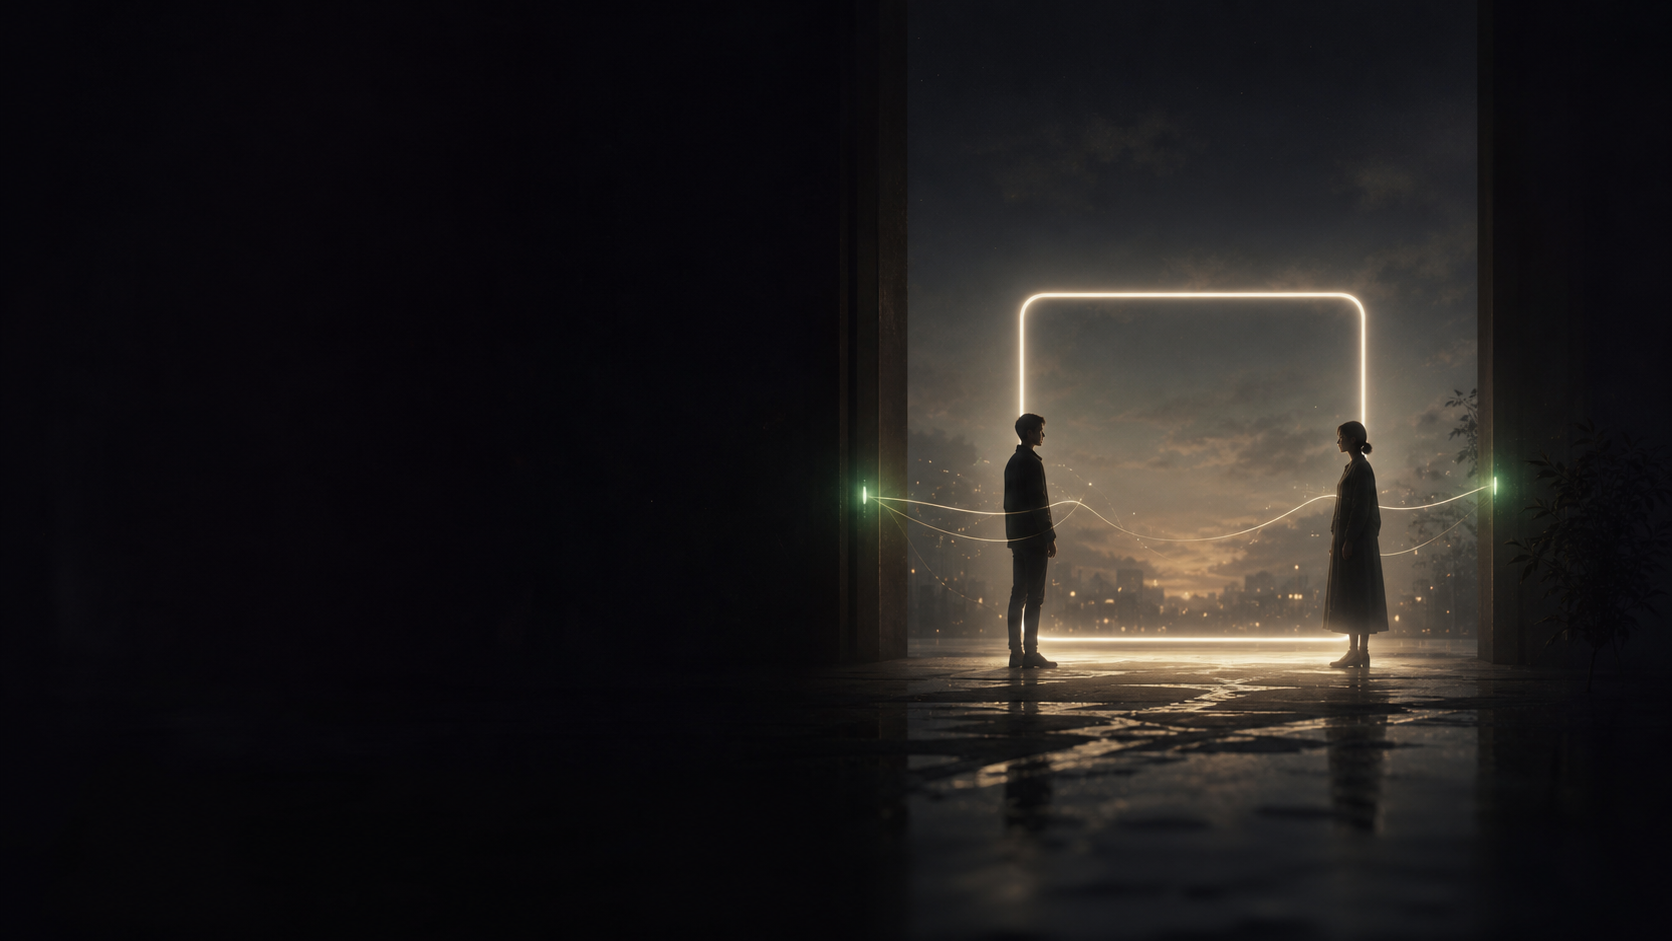
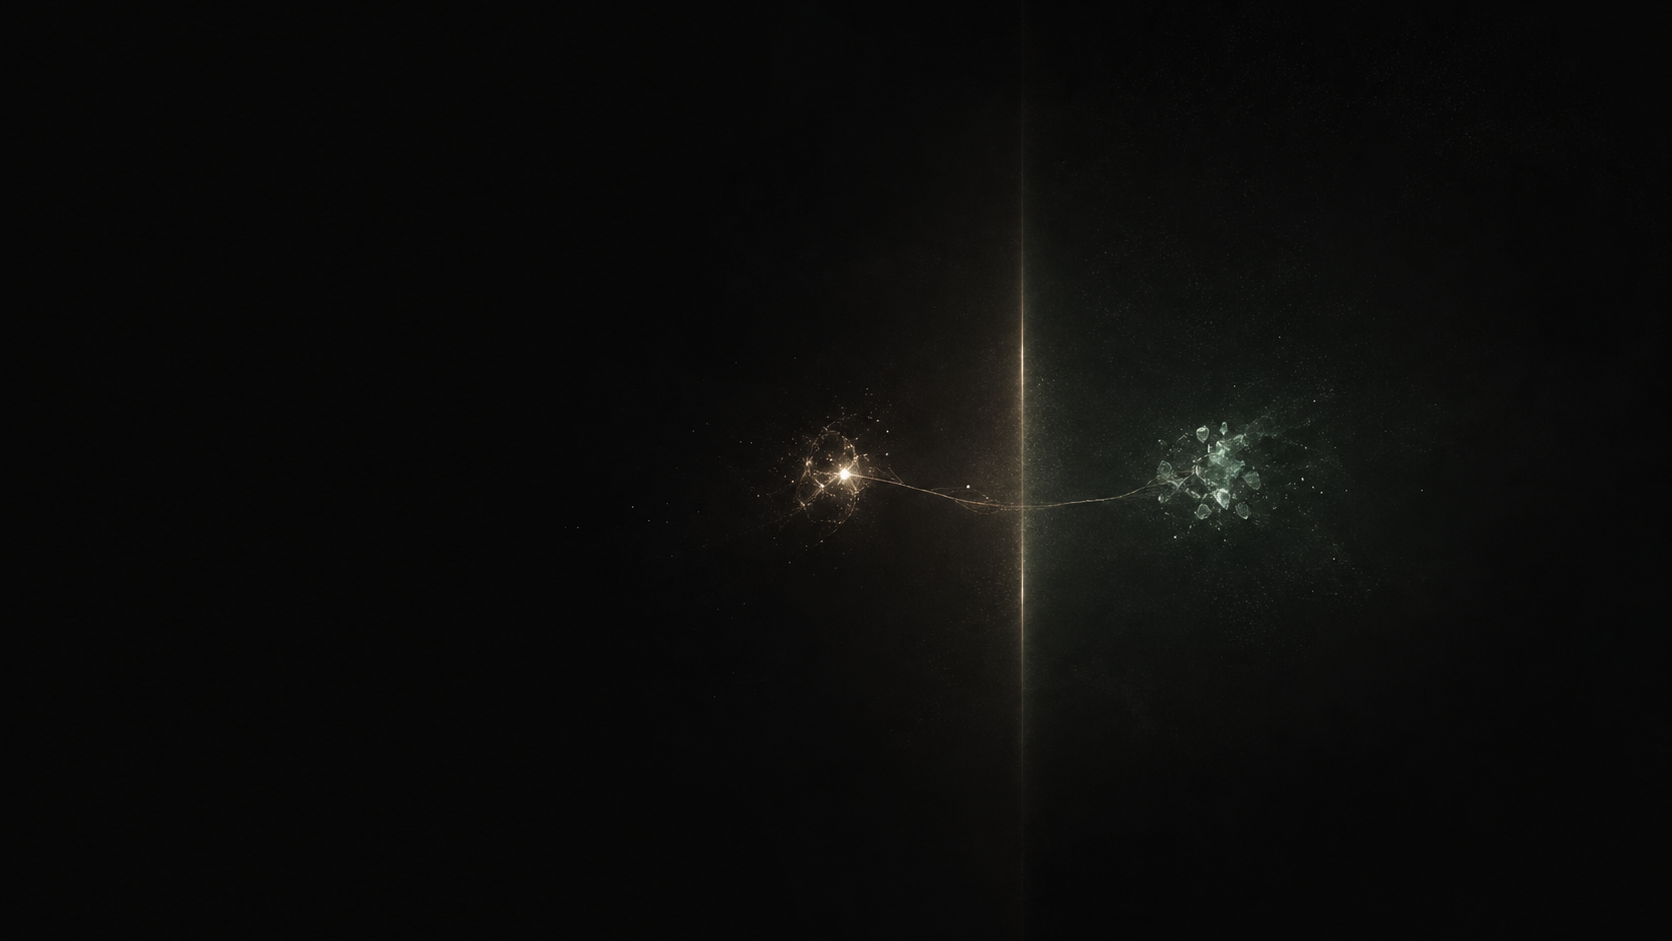
fix: refine unknown homepage atmosphere

Changed region(s): [[0.4665, 0.0925, 0.933, 0.9862]]

diff --git a/app/page.tsx b/app/page.tsx
@@ -36,32 +36,24 @@ type QrStatusResponse = Pick<QrResponse, "expiresAt" | "sessionId"> & {
 type Locale = "zh" | "en";
 
 const githubUrl = "https://github.com/samwang0041-star/whoareyou";
-const contactEmail = "[email redacted]";
+const contactEmail = "[email redacted]";
 const pageCopy = {
   zh: {
     localeName: "中文",
     switchLabel: "EN",
     switchAria: "Switch to English",
-    topLine: "一个 AI 爱好者的小玩具",
+    topLine: "AI 工具之外",
     hour: "one hour",
     title: "UNKNOWN",
-    lead: "你以为又要接入一个 agent。\n这一次，入口后面只是一个人。",
-    subLead: "扫码，把这个微信入口留给一个也停下来的人。也许没有结论，但会有一小时是真的。",
+    lead: "不是新的 agent。\n也不是匿名社交。",
+    subLead: "把入口留在微信里。也许某一刻，会有另一个未知的信号靠近。",
     enterIdle: "进入",
     enterLoading: "入口亮起中",
     enterConnected: "入口已亮",
-    enterHelper: "扫码后，回到微信发「打开」。",
+    enterHelper: "扫码后，回到微信发「打开」。一小时。",
     connectedHelper: "回到微信，发「打开」。",
-    sideNote: "不是匿名社交，也不是一个新社区。只是 vibe coding 太久以后，做出来的一个开源小玩具。",
-    whyTitle: "为什么做这个",
-    whyLeft:
-      "AI 时代，我们不停地和 AI 对话。五小时窗口、week 窗口、token 焦虑，像一条看不见的倒计时，把人推着往前走。",
-    whyRight:
-      "AI 工具一天迭代 N 个版本，我们仿佛成了给它们做回归测试的人。工具越来越快，时间却越来越不够用。",
-    whyEnd:
-      "所以这一次，还是同一个入口，还是扫码，还是在微信里说话。但入口后面不是一个永远在线的模型，而是另一个也停下来的人。",
-    footerLine:
-      "开源，不保存昵称、头像、手机号或明文聊天记录。只是想在 vibe coding 这么久后，真的做一个自己觉得有意思的产品。",
+    sideNote: "开源。不保存昵称、头像、手机号或明文聊天。",
+    footerLine: "vibe coding 很久以后，只想做一个自己觉得有意思的小东西。",
     github: "GitHub",
     experience: "体验入口",
     contactPrefix: "如有侵权，联系",
@@ -87,6 +79,8 @@ const pageCopy = {
       providerErrorHelper: "换一个二维码，再试一次。",
       localHelper: "这不是微信服务器二维码，只用于本地模拟扫码。",
       realHelper: "扫完，回到微信发「打开」。",
+      mobileRealPrompt: "长按二维码识别",
+      mobileRealHelper: "识别后，回到微信发「打开」。",
       expiredStatus: "已熄灭",
       waitingStatus: "等你靠近",
       scanConfirmingStatus: "等你开口",
@@ -106,26 +100,18 @@ const pageCopy = {
     localeName: "English",
     switchLabel: "中",
     switchAria: "切换到中文",
-    topLine: "a small toy by an AI hobbyist",
+    topLine: "outside the tools",
     hour: "one hour",
     title: "UNKNOWN",
-    lead: "You think this is another agent endpoint.\nThis time, there is only a person behind it.",
-    subLead: "Scan with WeChat and leave the entrance open for someone else who also stopped. It may not solve anything, but the hour is real.",
+    lead: "Not another agent.\nNot anonymous social.",
+    subLead: "Leave the entrance in WeChat. At some unknown moment, another signal may come close.",
     enterIdle: "Enter",
     enterLoading: "Lighting up",
     enterConnected: "Entrance lit",
-    enterHelper: "After scanning, return to WeChat and send “打开”.",
+    enterHelper: "Scan, return to WeChat, send “打开”. One hour.",
     connectedHelper: "Return to WeChat and send “打开”.",
-    sideNote: "Not anonymous social networking, not a new community. Just a small open-source toy made after too much vibe coding.",
-    whyTitle: "Why this exists",
-    whyLeft:
-      "In the AI era, we keep talking to models. Five-hour windows, week windows, token anxiety, and context limits become a quiet countdown.",
-    whyRight:
-      "AI tools iterate many times a day. We start to feel like regression testers for the tools that were supposed to help us.",
-    whyEnd:
-      "So this uses the same entrance, the same scan, and the same WeChat conversation. But behind it is not an always-online model. It is someone else who stopped.",
-    footerLine:
-      "Open source. No nicknames, avatars, phone numbers, or readable chat history are stored. I just wanted to build something personally interesting after a long stretch of vibe coding.",
+    sideNote: "Open source. No nicknames, avatars, phone numbers, or readable chat history.",
+    footerLine: "After too much vibe coding, I wanted to make one small thing that still felt interesting.",
     github: "GitHub",
     experience: "Try it",
     contactPrefix: "If this infringes your rights, contact",
@@ -151,6 +137,8 @@ const pageCopy = {
       providerErrorHelper: "Get a new QR code and try again.",
       localHelper: "This is not a WeChat server QR code. It is only for local simulation.",
       realHelper: "After scanning, return to WeChat and send “打开”.",
+      mobileRealPrompt: "Long-press the QR code",
+      mobileRealHelper: "After it opens in WeChat, send “打开”.",
       expiredStatus: "Expired",
       waitingStatus: "Waiting",
       scanConfirmingStatus: "Waiting for words",
@@ -266,6 +254,7 @@ export default function HomePage() {
   const [isLoading, setIsLoading] = useState(false);
   const [remainingSeconds, setRemainingSeconds] = useState<number | null>(null);
   const [isReady, setIsReady] = useState(false);
+  const [isCompactViewport, setIsCompactViewport] = useState(false);
   const t = pageCopy[locale];
   const modalCopy = t.modal;
   const nextLocale: Locale = locale === "zh" ? "en" : "zh";
@@ -276,6 +265,14 @@ export default function HomePage() {
       setIsReady(true);
     }, 0);
     return () => window.clearTimeout(readyTimer);
+  }, []);
+
+  useEffect(() => {
+    const query = window.matchMedia("(max-width: 767px)");
+    const updateViewport = () => setIsCompactViewport(query.matches);
+    updateViewport();
+    query.addEventListener("change", updateViewport);
+    return () => query.removeEventListener("change", updateViewport);
   }, []);
 
   const markEntryConnected = useCallback((source: QrResponse) => {
@@ -425,6 +422,7 @@ export default function HomePage() {
   const shouldShowQr = Boolean(entryQr && (phase === "ready" || phase === "expired"));
   const hasConnectedEntry = phase === "connected" || Boolean(connectedEntry);
   const isLocalQrPreview = entryQr?.mode === "fake" && shouldShowQr;
+  const shouldUseLongPressCopy = shouldShowQr && !isLocalQrPreview && isCompactViewport;
   const qrPrompt = isQrExpired
     ? modalCopy.expiredPrompt
     : qrStatus === "scan_confirming"
@@ -435,7 +433,9 @@ export default function HomePage() {
           ? modalCopy.providerErrorPrompt
           : isLocalQrPreview
             ? modalCopy.localPrompt
-          : modalCopy.realPrompt;
+            : shouldUseLongPressCopy
+              ? modalCopy.mobileRealPrompt
+              : modalCopy.realPrompt;
   const qrHelperText = isQrExpired
     ? modalCopy.expiredHelper
     : qrStatus === "scan_confirming"
@@ -446,7 +446,9 @@ export default function HomePage() {
           ? modalCopy.providerErrorHelper
           : isLocalQrPreview
             ? modalCopy.localHelper
-          : modalCopy.realHelper;
+            : shouldUseLongPressCopy
+              ? modalCopy.mobileRealHelper
+              : modalCopy.realHelper;
   const qrStatusLabel = isQrExpired
     ? modalCopy.expiredStatus
     : qrStatus === "waiting_to_scan"
@@ -465,11 +467,11 @@ export default function HomePage() {
   const canReopenAfterProviderError = qrStatus === "provider_error";
 
   return (
-    <main className="relative min-h-screen overflow-hidden bg-[#0c0b10] text-[#f7f1e8]">
-      <div aria-hidden="true" className="pointer-events-none fixed inset-0 z-0 h-[100svh] min-h-[680px]">
+    <main className="relative min-h-[100svh] overflow-hidden bg-[#0c0b10] text-[#f7f1e8]">
+      <div aria-hidden="true" className="pointer-events-none fixed inset-0 z-0 h-[100svh]">
         <Image
           alt=""
-          className="object-cover object-[50%_center] brightness-110 saturate-110 sm:object-[62%_center]"
+          className="object-cover object-[52%_center] brightness-110 saturate-110"
           data-testid="hero-main-visual"
           fill
           priority
@@ -481,7 +483,7 @@ export default function HomePage() {
         <div className="absolute inset-x-0 bottom-0 h-64 bg-[linear-gradient(180deg,rgba(12,11,16,0)_0%,#0c0b10_92%)]" />
       </div>
 
-      <section className="relative z-10 mx-auto flex min-h-screen w-full max-w-6xl flex-col justify-between px-6 py-8 sm:px-10 sm:py-12">
+      <section className="relative z-10 mx-auto flex min-h-[100svh] w-full max-w-6xl flex-col justify-between px-6 py-7 sm:px-10 sm:py-10">
         <div className="flex items-center justify-between gap-5 text-xs text-[#9b9388]">
           <span>{t.topLine}</span>
           <div className="flex items-center gap-4">
@@ -500,14 +502,14 @@ export default function HomePage() {
           </div>
         </div>
 
-        <div className="max-w-3xl py-12 sm:py-16">
-          <h1 className="text-6xl font-normal leading-none text-[#fff8ed] sm:text-8xl md:text-9xl">
+        <div className="max-w-2xl py-10 sm:py-12">
+          <h1 className="text-5xl font-normal leading-none text-[#fff8ed] sm:text-7xl md:text-8xl">
             {t.title}
           </h1>
-          <p className="mt-8 max-w-2xl whitespace-pre-line text-xl leading-9 text-[#eadfce] sm:text-2xl sm:leading-10">
+          <p className="mt-7 max-w-xl whitespace-pre-line text-xl leading-8 text-[#eadfce] sm:text-2xl sm:leading-9">
             {t.lead}
           </p>
-          <p className="mt-5 max-w-xl text-base leading-8 text-[#b8aa96] sm:text-lg sm:leading-8">
+          <p className="mt-5 max-w-md text-sm leading-7 text-[#b8aa96] sm:text-base sm:leading-7">
             {t.subLead}
           </p>
 
@@ -524,38 +526,25 @@ export default function HomePage() {
             </p>
           </div>
 
-          <div className="mt-10 max-w-xl border-l border-[#f7f1e8]/18 pl-5 text-sm leading-7 text-[#b8aa96]">
+          <div className="mt-9 max-w-md border-l border-[#f7f1e8]/18 pl-5 text-xs leading-6 text-[#9b9388] sm:text-sm">
             {t.sideNote}
           </div>
         </div>
 
-        <div className="border-t border-[#f7f1e8]/12 pt-7 text-sm leading-7 text-[#9b9388]">
-          <p className="text-[#d7cab8]">{t.whyTitle}</p>
-          <div className="mt-4 grid gap-5 md:grid-cols-2">
-            <p>{t.whyLeft}</p>
-            <p>{t.whyRight}</p>
-          </div>
-          <p className="mt-5 max-w-3xl text-[#b8aa96]">
-            {t.whyEnd}
+        <div className="flex flex-col gap-3 border-t border-[#f7f1e8]/10 pt-4 text-xs leading-6 text-[#8f867c] sm:flex-row sm:items-center sm:justify-between">
+          <p className="max-w-xl">{t.footerLine}</p>
+          <p className="flex shrink-0 flex-wrap gap-x-4 gap-y-1">
+            <a className="text-[#d7cab8] transition hover:text-[#fff8ed]" href={githubUrl} rel="noreferrer" target="_blank">
+              {t.github}
+            </a>
+            <span>
+              {t.contactPrefix}{" "}
+              <a className="text-[#d7cab8] transition hover:text-[#fff8ed]" href={`mailto:${contactEmail}`}>
+                {contactEmail}
+              </a>
+              {t.contactSuffix}
+            </span>
           </p>
-          <div className="mt-7 flex flex-col gap-3 border-t border-[#f7f1e8]/10 pt-5 text-xs leading-6 text-[#8f867c] sm:flex-row sm:items-start sm:justify-between">
-            <p className="max-w-3xl">{t.footerLine}</p>
-            <p className="flex shrink-0 flex-wrap gap-x-4 gap-y-1">
-              <a className="text-[#d7cab8] transition hover:text-[#fff8ed]" href={githubUrl} rel="noreferrer" target="_blank">
-                {t.github}
-              </a>
-              <a className="text-[#d7cab8] transition hover:text-[#fff8ed]" href="https://ai.wangyuzhao.cn/">
-                {t.experience}
-              </a>
-              <span>
-                {t.contactPrefix}{" "}
-                <a className="text-[#d7cab8] transition hover:text-[#fff8ed]" href={`mailto:${contactEmail}`}>
-                  {contactEmail}
-                </a>
-                {t.contactSuffix}
-              </span>
-            </p>
-          </div>
         </div>
       </section>
 

diff --git a/tests/e2e/landing.spec.ts b/tests/e2e/landing.spec.ts
@@ -78,15 +78,15 @@ test("landing page shows a ready QR entry", async ({ page }) => {
 
   await expect(page.getByTestId("hero-main-visual")).toBeVisible();
   await expect(page.getByRole("heading", { name: "UNKNOWN" })).toBeVisible();
-  await expect(page.locator("body")).toContainText("一个 AI 爱好者的小玩具");
-  await expect(page.locator("body")).toContainText("你以为又要接入一个 agent。");
-  await expect(page.locator("body")).toContainText("这一次，入口后面只是一个人。");
-  await expect(page.locator("body")).toContainText("把这个微信入口留给一个也停下来的人");
-  await expect(page.locator("body")).toContainText("不是匿名社交，也不是一个新社区。");
-  await expect(page.locator("body")).toContainText("五小时窗口、week 窗口、token 焦虑");
-  await expect(page.locator("body")).toContainText("成了给它们做回归测试的人");
-  await expect(page.locator("body")).toContainText("开源，不保存昵称、头像、手机号或明文聊天记录。");
-  await expect(page.locator("body")).toContainText("[email redacted]");
+  await expect(page.locator("body")).toContainText("AI 工具之外");
+  await expect(page.locator("body")).toContainText("不是新的 agent。");
+  await expect(page.locator("body")).toContainText("也不是匿名社交。");
+  await expect(page.locator("body")).toContainText("另一个未知的信号靠近");
+  await expect(page.locator("body")).toContainText("开源。不保存昵称、头像、手机号或明文聊天。");
+  await expect(page.locator("body")).toContainText("vibe coding 很久以后");
+  await expect(page.locator("body")).toContainText("[email redacted]");
+  await expect(page.locator("body")).not.toContainText("五小时窗口、week 窗口、token 焦虑");
+  await expect(page.locator("body")).not.toContainText("成了给它们做回归测试的人");
   await expectRejectedCopyAbsent(page);
 
   await page.getByRole("button", { name: "进入" }).click();
@@ -108,20 +108,23 @@ test("landing page can switch between Chinese and English", async ({ page }) => 
   await page.getByRole("button", { name: "Switch to English" }).click();
 
   await expect(page.getByRole("heading", { name: "UNKNOWN" })).toBeVisible();
-  await expect(page.locator("body")).toContainText("a small toy by an AI hobbyist");
-  await expect(page.locator("body")).toContainText("This time, there is only a person behind it.");
+  await expect(page.locator("body")).toContainText("outside the tools");
+  await expect(page.locator("body")).toContainText("Not another agent.");
+  await expect(page.locator("body")).toContainText("Not anonymous social.");
+  await expect(page.locator("body")).toContainText("another signal may come close");
   await expect(page.locator("body")).toContainText("Open source. No nicknames, avatars, phone numbers");
   await expect(page.getByRole("button", { name: "Enter" })).toBeVisible();
 
   await page.getByRole("button", { name: "切换到中文" }).click();
 
-  await expect(page.locator("body")).toContainText("一个 AI 爱好者的小玩具");
+  await expect(page.locator("body")).toContainText("AI 工具之外");
   await expect(page.getByRole("button", { name: "进入" })).toBeVisible();
 });
 
 test("openclaw QR entry keeps the WeChat scan copy", async ({ page }) => {
   const expiresAt = new Date(Date.now() + 299_000).toISOString();
 
+  await page.setViewportSize({ width: 1280, height: 900 });
   await routeQrStatus(page, "waiting_to_scan");
   await page.route("**/api/qr", async (route) => {
     await route.fulfill({
@@ -138,6 +141,28 @@ test("openclaw QR entry keeps the WeChat scan copy", async ({ page }) => {
   await expect(page.getByText("用微信扫一扫")).toBeVisible();
   await expect(page.getByText("扫完，回到微信发「打开」。")).toBeVisible();
   await expect(page.getByText("本地预演入口")).toHaveCount(0);
+});
+
+test("openclaw QR entry uses long-press copy on mobile", async ({ page }) => {
+  const expiresAt = new Date(Date.now() + 299_000).toISOString();
+
+  await page.setViewportSize({ width: 390, height: 844 });
+  await routeQrStatus(page, "waiting_to_scan");
+  await page.route("**/api/qr", async (route) => {
+    await route.fulfill({
+      contentType: "application/json",
+      body: JSON.stringify(qrFixture({ expiresAt, mode: "openclaw" })),
+    });
+  });
+
+  await page.goto("/");
+  await page.getByRole("button", { name: "进入" }).click();
+
+  await expect(page.getByTestId("wechat-entry-dialog")).toBeVisible();
+  await expect(page.getByRole("heading", { name: "微信里见" })).toBeVisible();
+  await expect(page.getByText("长按二维码识别")).toBeVisible();
+  await expect(page.getByText("识别后，回到微信发「打开」。")).toBeVisible();
+  await expect(page.getByText("用微信扫一扫")).toHaveCount(0);
 });
 
 test("QR code stays square on a narrow phone viewport", async ({ page }) => {

diff --git a/app/layout.tsx b/app/layout.tsx
@@ -15,17 +15,17 @@ const geistMono = Geist_Mono({
 export const metadata: Metadata = {
   metadataBase: new URL("https://ai.wangyuzhao.cn"),
   title: "UNKNOWN",
-  description: "一个 AI 爱好者的小玩具：扫码，把这个微信入口留给一个也停下来的人。",
+  description: "不是新的 agent，也不是匿名社交。把入口留在微信里，等一个未知的信号靠近。",
   openGraph: {
     title: "UNKNOWN",
-    description: "扫码，把这个微信入口留给一个也停下来的人。",
+    description: "把入口留在微信里，等一个未知的信号靠近。",
     url: "https://ai.wangyuzhao.cn/",
     siteName: "UNKNOWN",
     images: [
       {
         url: "/whoareyou-main-visual.png",
-        width: 1792,
-        height: 1024,
+        width: 1672,
+        height: 941,
         alt: "UNKNOWN main visual",
       },
     ],
@@ -34,7 +34,7 @@ export const metadata: Metadata = {
   twitter: {
     card: "summary_large_image",
     title: "UNKNOWN",
-    description: "扫码，把这个微信入口留给一个也停下来的人。",
+    description: "把入口留在微信里，等一个未知的信号靠近。",
     images: ["/whoareyou-main-visual.png"],
   },
 };